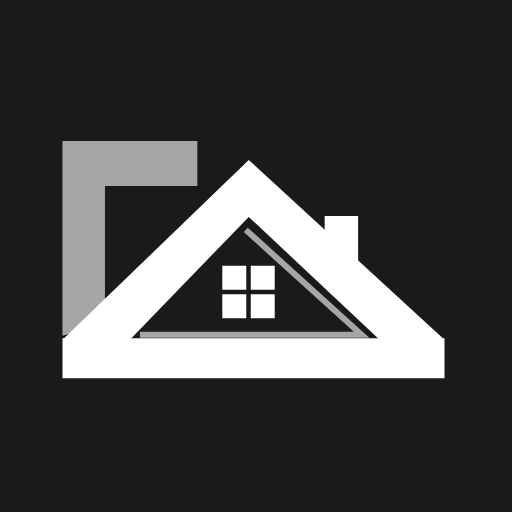
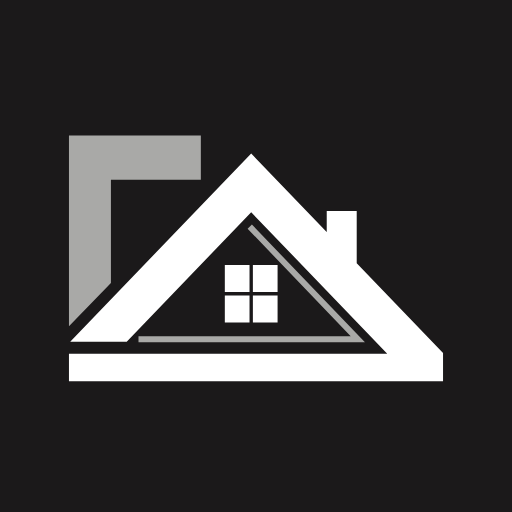
feat: νέο λογότυπο-σπιτάκι στη σελίδα, ίδιο με την εφαρμογή
Το mark.svg γίνεται το πιστό ξανασχέδιο του λογοτύπου της 21/11/2026
(ίδια γεωμετρία με την εφαρμογή). Από αυτό ξαναβγήκαν favicon.svg/png,
icon-180, icon-512, logo-512 και og-image (από design/og-image.html).
Η κεφαλίδα παίρνει τη νέα αναλογία (148x100) και τα εικονίδια ?v=3
για να ανανεωθούν στους browsers.

Claude-Session: https://claude.ai/code/session_018JWRoTLi78ykhwMiwbTpXu

diff --git a/README.md b/README.md
@@ -19,7 +19,7 @@
 - `src/data/services.ts`: οι 6 υπηρεσίες με όλα τα κείμενα της σελίδας τους.
 - `src/data/projects.ts`: τα έργα. Κάθε έργο δείχνει σε ποιες υπηρεσίες ανήκει και εμφανίζεται και στη σελίδα τους.
 - Εμφάνιση: `src/styles/global.css`.
-- Λογότυπο: `public/assets/mark.svg` (το σπίτι σε διάνυσμα, στην κεφαλίδα και στην εικόνα κοινοποίησης). Από αυτό βγαίνουν `favicon.svg/png`, `icon-180.png`, `icon-512.png`, `logo-512.png` και `og-image.png` (πηγή: `design/og-image.html`). Το `logo-original.png` είναι το αρχικό σε μικρή ανάλυση.
+- Λογότυπο: `public/assets/mark.svg` (το σπίτι σε διάνυσμα, πιστό ξανασχέδιο του λογοτύπου της 21/11/2026, το ίδιο με την εφαρμογή· στην κεφαλίδα και στην εικόνα κοινοποίησης). Από αυτό βγαίνουν `favicon.svg/png`, `icon-180.png`, `icon-512.png`, `logo-512.png` και `og-image.png` (πηγή: `design/og-image.html`). Το `logo-original.png` είναι το αρχικό σε μικρή ανάλυση.
 
 ## Τοπικά
 ```

diff --git a/docs/STATE.md b/docs/STATE.md
@@ -7,6 +7,7 @@
 
 ## Κατάσταση
 - Ζωντανό: https://contractorpng.gr (17/11/2026).
+- 21/11/2026: νέο λογότυπο-σπιτάκι (ίδιο με την εφαρμογή) σε κεφαλίδα, favicon, εικονίδια και εικόνα κοινοποίησης, σε PR. Ζωντανό μόλις γίνει merge.
 
 ## Επόμενο βήμα
 Καμία τεχνική ενέργεια. Αλλαγές μόνο σε περιεχόμενο.
